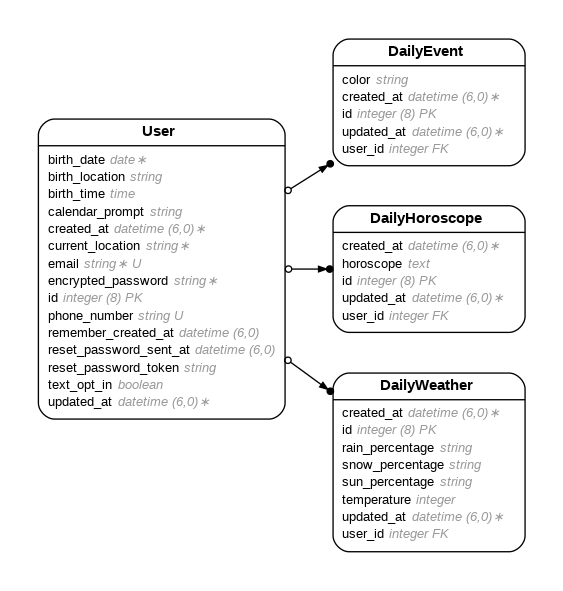
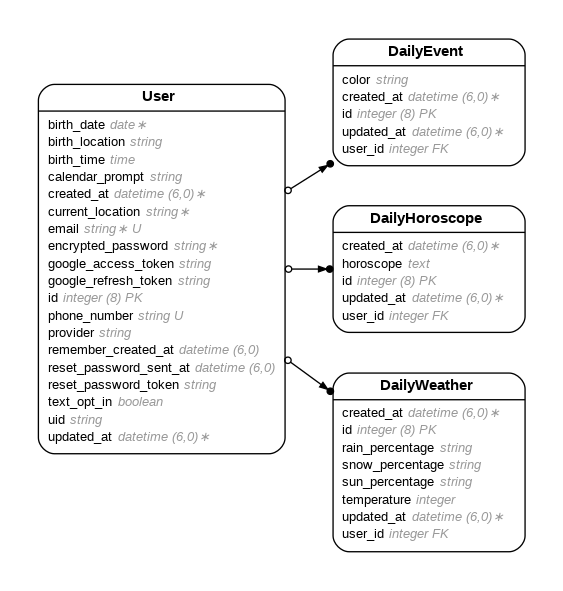
updated users table for gcal oauth

Changed region(s): [[0.0604, 0.1218, 0.5133, 0.4873], [0.0604, 0.5482, 0.5133, 0.7919]]

diff --git a/app/models/user.rb b/app/models/user.rb
@@ -10,24 +10,34 @@
 #  current_location       :string
 #  email                  :string           default(""), not null
 #  encrypted_password     :string           default(""), not null
+#  google_access_token    :string
+#  google_refresh_token   :string
 #  phone_number           :string
+#  provider               :string
 #  remember_created_at    :datetime
 #  reset_password_sent_at :datetime
 #  reset_password_token   :string
 #  text_opt_in            :boolean          default(FALSE)
+#  uid                    :string
 #  created_at             :datetime         not null
 #  updated_at             :datetime         not null
 #
 # Indexes
 #
 #  index_users_on_email                 (email) UNIQUE
+#  index_users_on_provider_and_uid      (provider,uid) UNIQUE
 #  index_users_on_reset_password_token  (reset_password_token) UNIQUE
 #
 class User < ApplicationRecord
   # Include default devise modules. Others available are:
   # :confirmable, :lockable, :timeoutable, :trackable and :omniauthable
-  devise :database_authenticatable, :registerable,
-         :recoverable, :rememberable, :validatable
+  devise :database_authenticatable,
+          :registerable,
+          :recoverable,
+          :rememberable,
+          :validatable,
+          :omniauthable,
+          :omniauth_providers => [:google_oauth2]
 
   has_many  :events, class_name: "DailyEvent", foreign_key: "user_id", dependent: :destroy
   has_many  :daily_weathers, class_name: "DailyWeather", foreign_key: "user_id", dependent: :destroy

diff --git a/config/initializers/devise.rb b/config/initializers/devise.rb
@@ -1,4 +1,5 @@
 # frozen_string_literal: true
+require "omniauth-google-oauth2"
 
 # Assuming you have not yet modified this file, each configuration option below
 # is set to its default value. Note that some are commented out while others
@@ -272,12 +273,14 @@ Devise.setup do |config|
 
   # ==> OmniAuth
   # Add a new OmniAuth provider. Check the wiki for more information on setting up on your models and hooks.
-  config.omniauth :GoogleOauth2,
-    ENV.fetch("GOOGLE_CLIENT_ID"),
-    ENV.fetch("GOOGLE_CLIENT_SECRET"),
-    scope: "email,profile,https://www.googleapis.com/auth/calendar.readonly",
-    prompt: "consent",
-    access_type: "offline"
+  config.omniauth :google_oauth2,
+     ENV.fetch("GOOGLE_CLIENT_ID"),
+     ENV.fetch("GOOGLE_CLIENT_SECRET"),
+     {
+       :scope       => "email,profile,https://www.googleapis.com/auth/calendar.readonly",
+       :prompt      => "consent",
+       :access_type => "offline"
+     }
 
   # ==> Warden configuration
   # If you want to use other strategies, that are not supported by Devise, or

diff --git a/db/schema.rb b/db/schema.rb
@@ -10,7 +10,7 @@
 #
 # It's strongly recommended that you check this file into your version control system.
 
-ActiveRecord::Schema[8.0].define(version: 2025_12_08_214258) do
+ActiveRecord::Schema[8.0].define(version: 2025_12_09_194401) do
   # These are extensions that must be enabled in order to support this database
   enable_extension "pg_catalog.plpgsql"
 
@@ -195,7 +195,12 @@ ActiveRecord::Schema[8.0].define(version: 2025_12_08_214258) do
     t.datetime "updated_at", null: false
     t.boolean "text_opt_in", default: false
     t.string "current_location"
+    t.string "provider"
+    t.string "uid"
+    t.string "google_access_token"
+    t.string "google_refresh_token"
     t.index ["email"], name: "index_users_on_email", unique: true
+    t.index ["provider", "uid"], name: "index_users_on_provider_and_uid", unique: true
     t.index ["reset_password_token"], name: "index_users_on_reset_password_token", unique: true
   end
 

diff --git a/db/migrate/20251209194401_add_omni_auth_columns_to_users.rb b/db/migrate/20251209194401_add_omni_auth_columns_to_users.rb
@@ -1,0 +1,10 @@
+class AddOmniAuthColumnsToUsers < ActiveRecord::Migration[8.0]
+  def change
+    add_column :users, :provider, :string
+    add_column :users, :uid, :string
+    add_column :users, :google_access_token, :string
+    add_column :users, :google_refresh_token, :string
+
+    add_index :users, [:provider, :uid], :unique => true
+  end
+end
